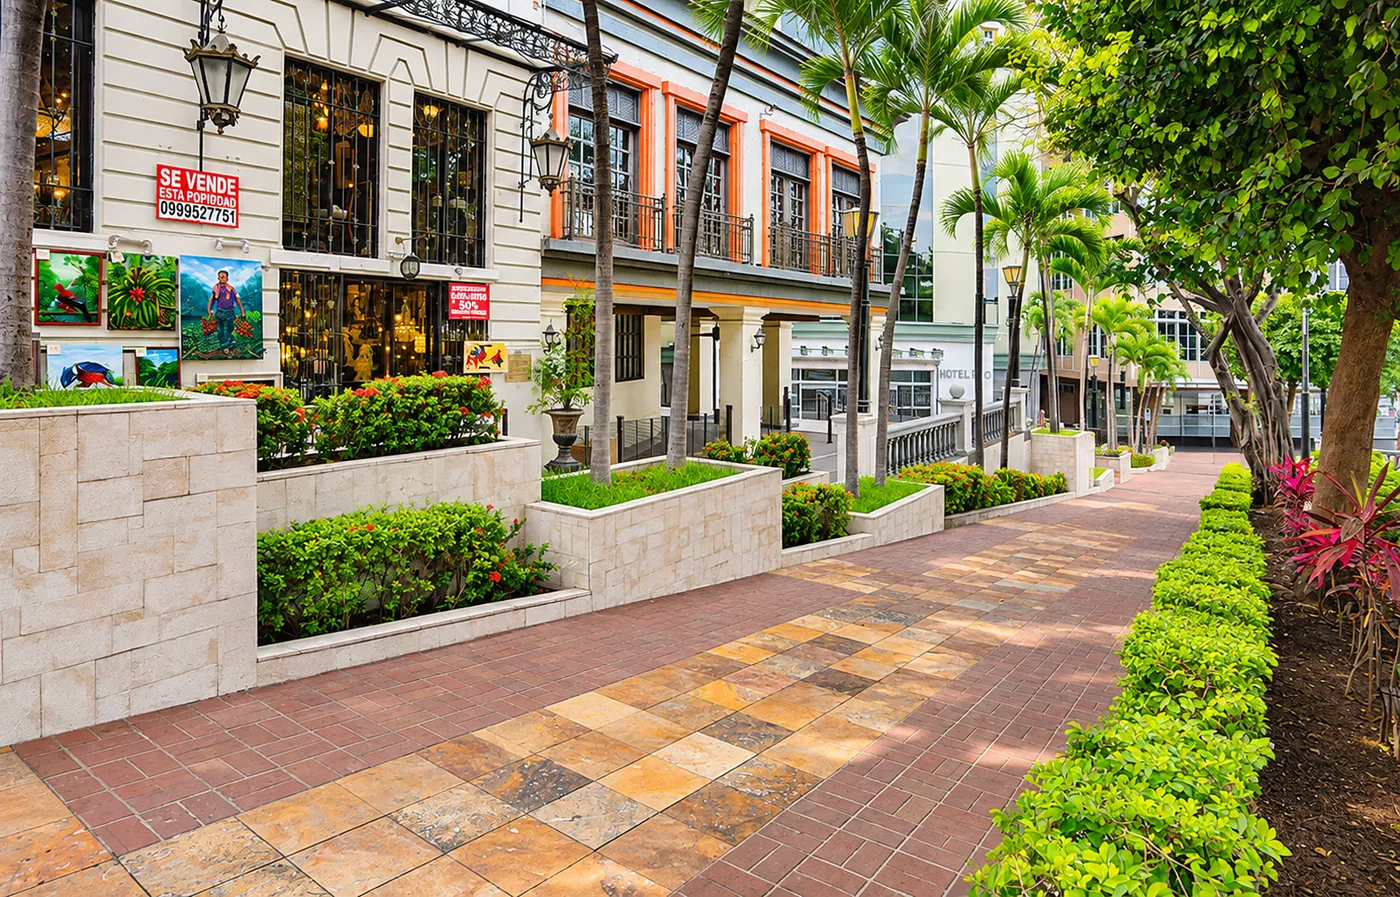
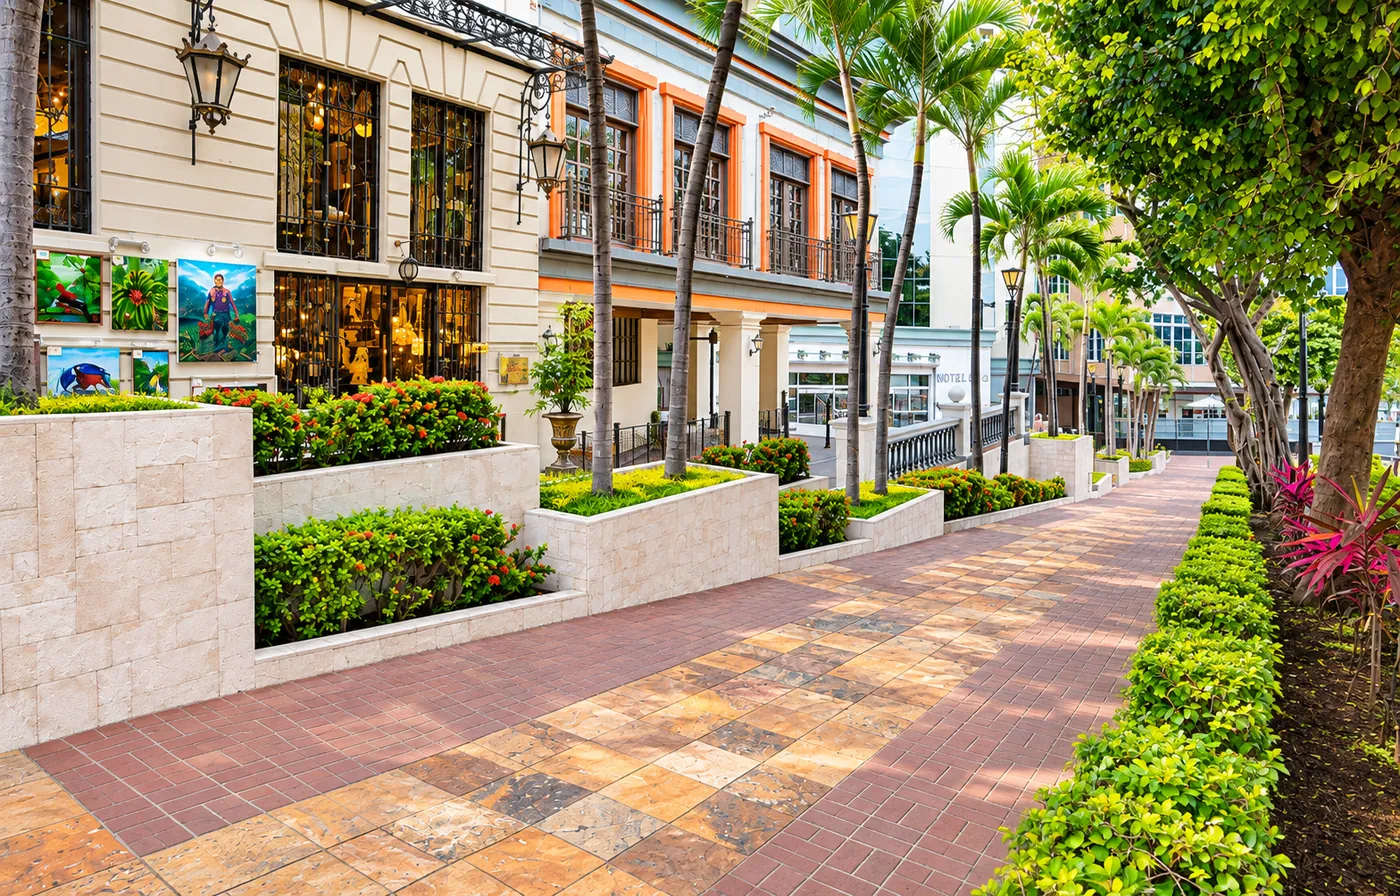
Galería Puerto Santa Ana: calle peatonal sin cartel de venta
Claude-Session: https://claude.ai/code/session_011nycqCT4BBoQgnj69gXT2J

diff --git a/index.html b/index.html
@@ -600,7 +600,7 @@ const PLACES={
  puerto:{id:'puerto',nombre:'Puerto Santa Ana',corto:'Puerto',sub:'Junto a Las Peñas',cats:['Gastronomía','Fotografía','Mar'],tag:'Gastronomía',img:'img/puerto.webp',dist:'a 1,4 km',dur:'1 – 2 h',horario:'Abierto todo el día',precio:'Gratis',lat:-2.1785,lng:-79.8768,
   sobre:'Paseo moderno junto al río, al norte del cerro Santa Ana. Tiene restaurantes, miradores al Guayas, la torre The Point y el museo de la música popular Julio Jaramillo.',
   historia:'Bienvenido a Puerto Santa Ana. Aquí, donde antes había bodegas y astilleros, hoy hay un paseo frente al río. Camina junto a la baranda y mira pasar los barcos. Al fondo verás The Point, la torre que parece girar. Y si escuchas un pasillo, sigue la música: el museo de Julio Jaramillo, el Ruiseñor de América, está muy cerca.',
-  galeria:['img/gal/puerto-1.webp','img/gal/puerto-2.webp','img/gal/puerto-3.webp'],rest:[['Restaurantes del puerto','Mariscos y comida típica · 100 m','fork']]},
+  galeria:['img/gal/puerto-1.webp','img/gal/puerto-2.webp','img/gal/puerto-3.webp?v=2'],rest:[['Restaurantes del puerto','Mariscos y comida típica · 100 m','fork']]},
  historico:{id:'historico',hero:'img/gal/historico-portada.webp',heroPos:'40% 50%',nombre:'Parque Histórico',corto:'P. Histórico',sub:'Samborondón',cats:['Naturaleza','Cultura'],tag:'Naturaleza',img:'img/historico.webp',dist:'20 min en auto',dur:'2 – 3 h',horario:'Abre desde las 09:00',precio:'$4 adultos · $2 niños',lat:-2.1468,lng:-79.8707,
   sobre:'Cruzando el río, en Samborondón: casas patrimoniales de madera, senderos entre el manglar y una zona de vida silvestre.',
   historia:'Cruza el río y viaja cien años atrás. En el Parque Histórico verás cómo vivía Guayaquil hace un siglo, en casas de madera con balcones. Antes de los edificios, estaba el manglar: camina por sus senderos y escucha a las aves. Algunos viajes se hacen en el tiempo.',
